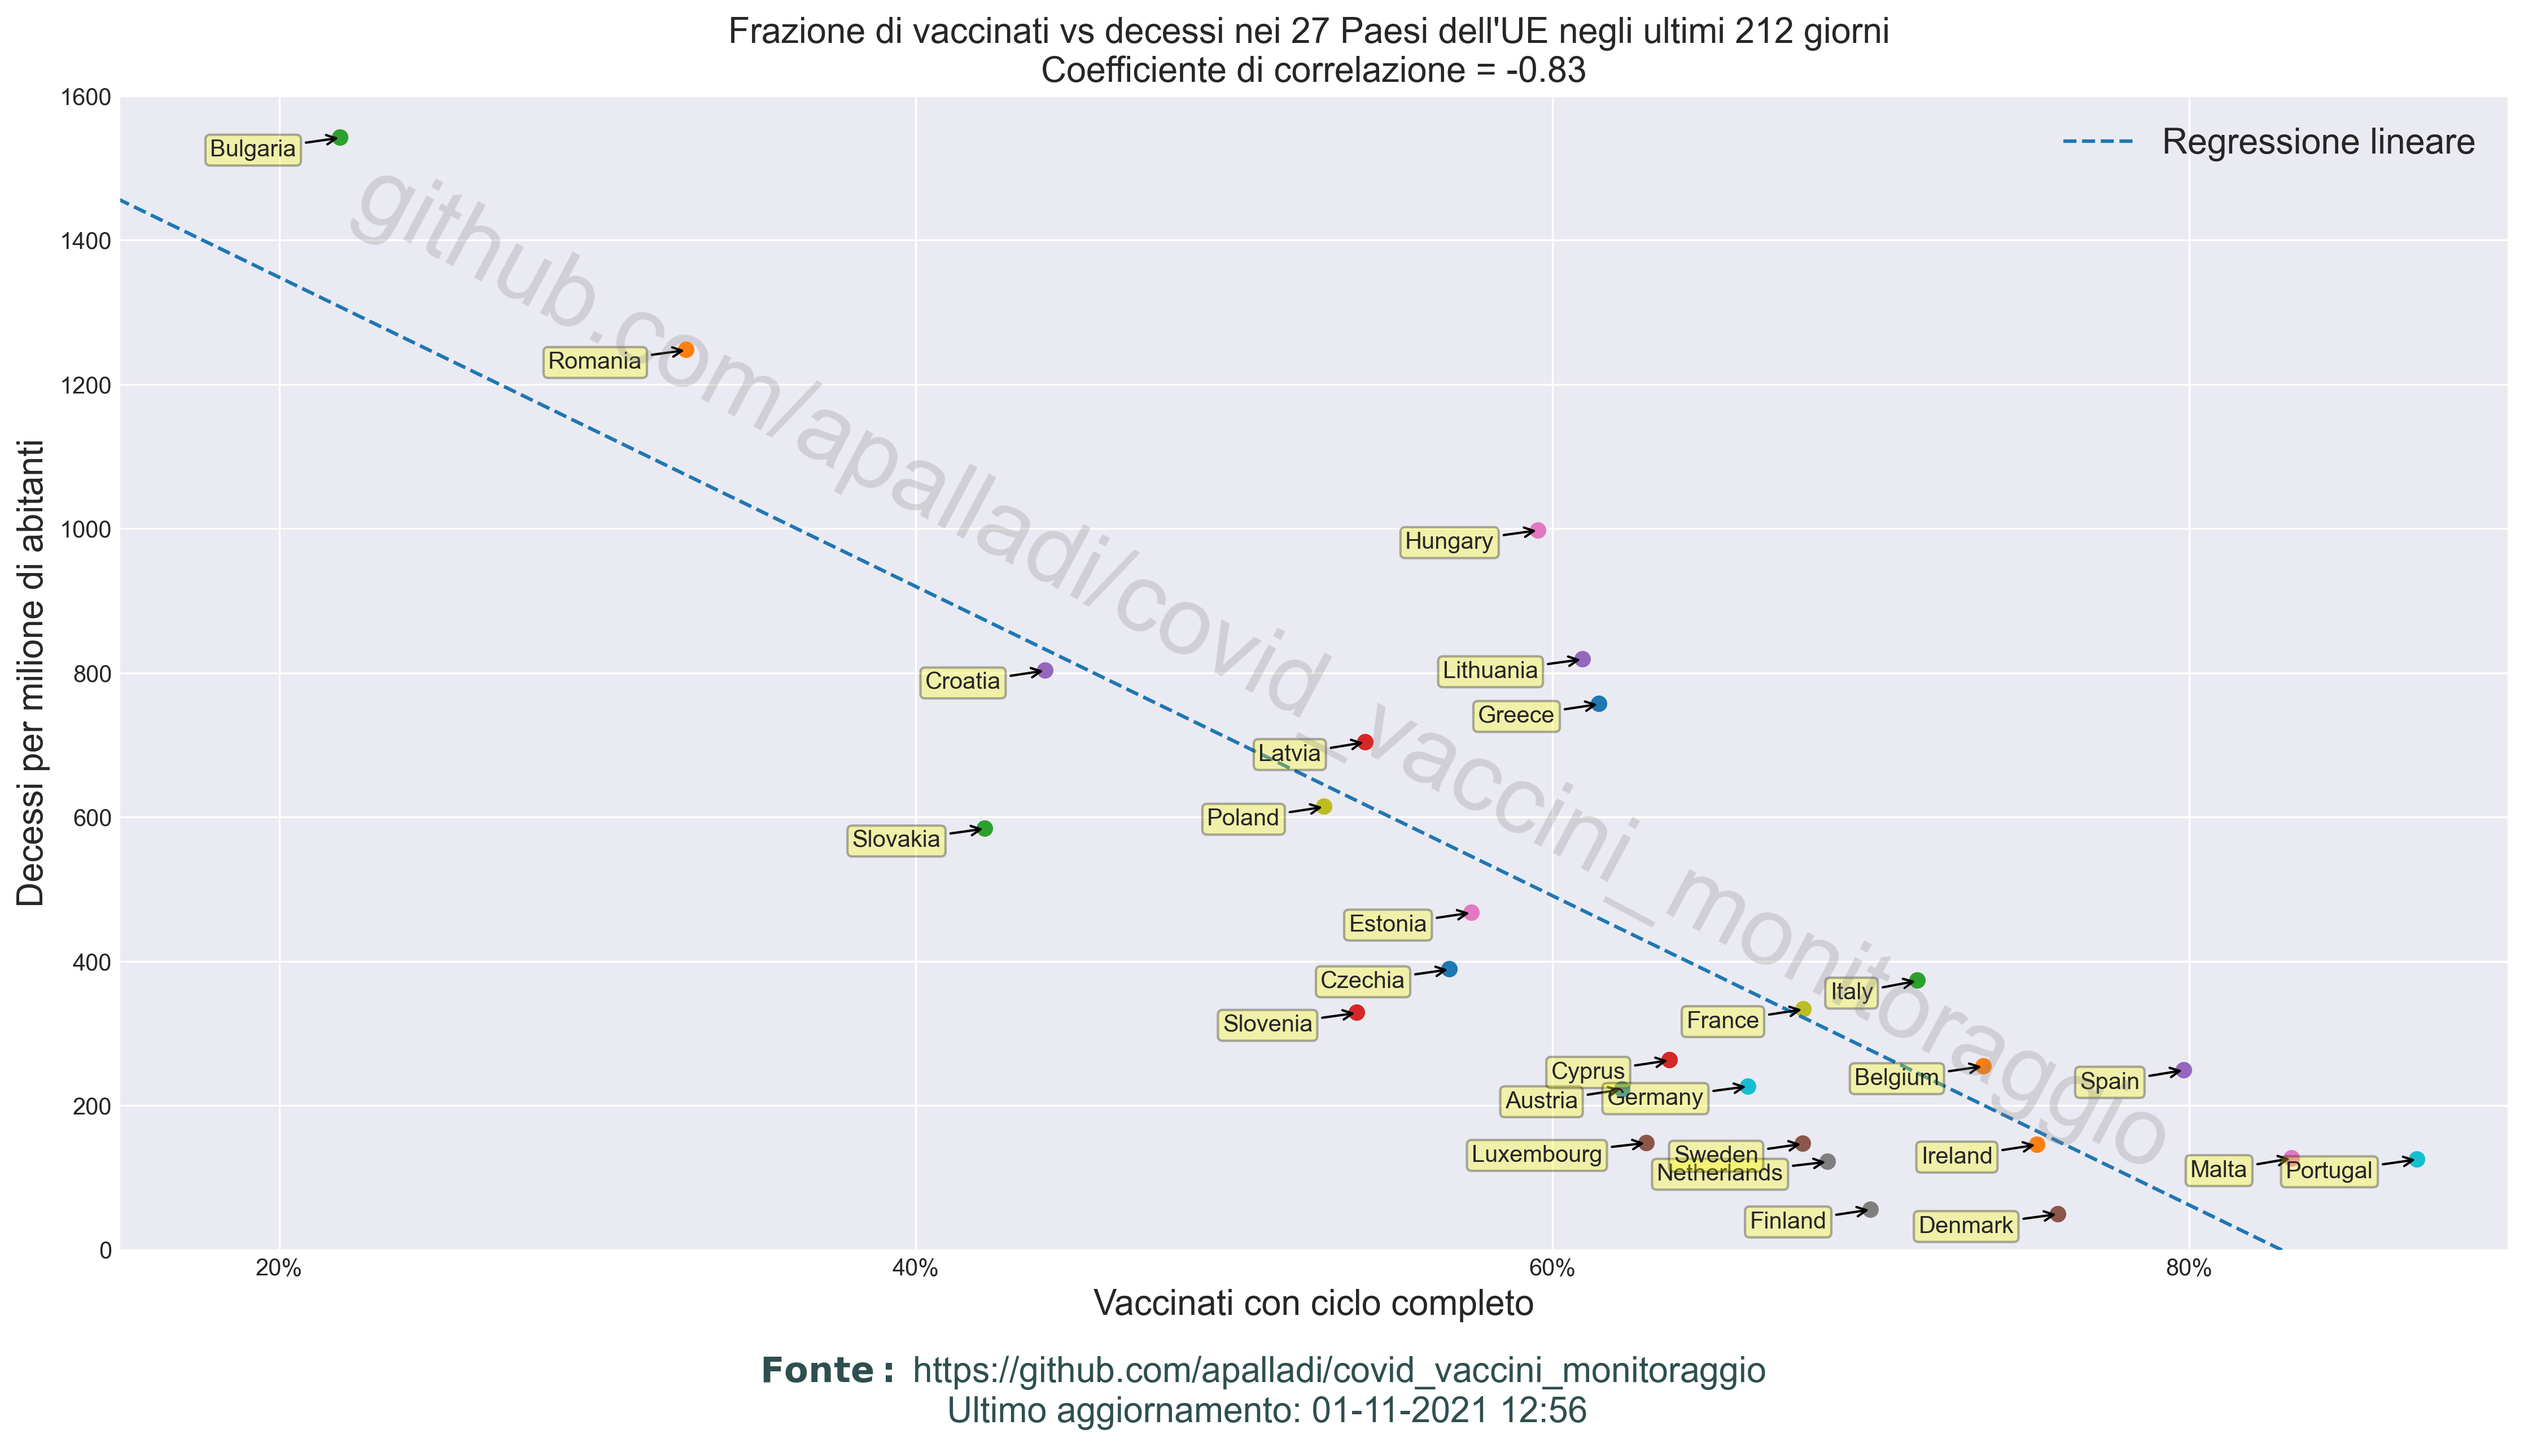
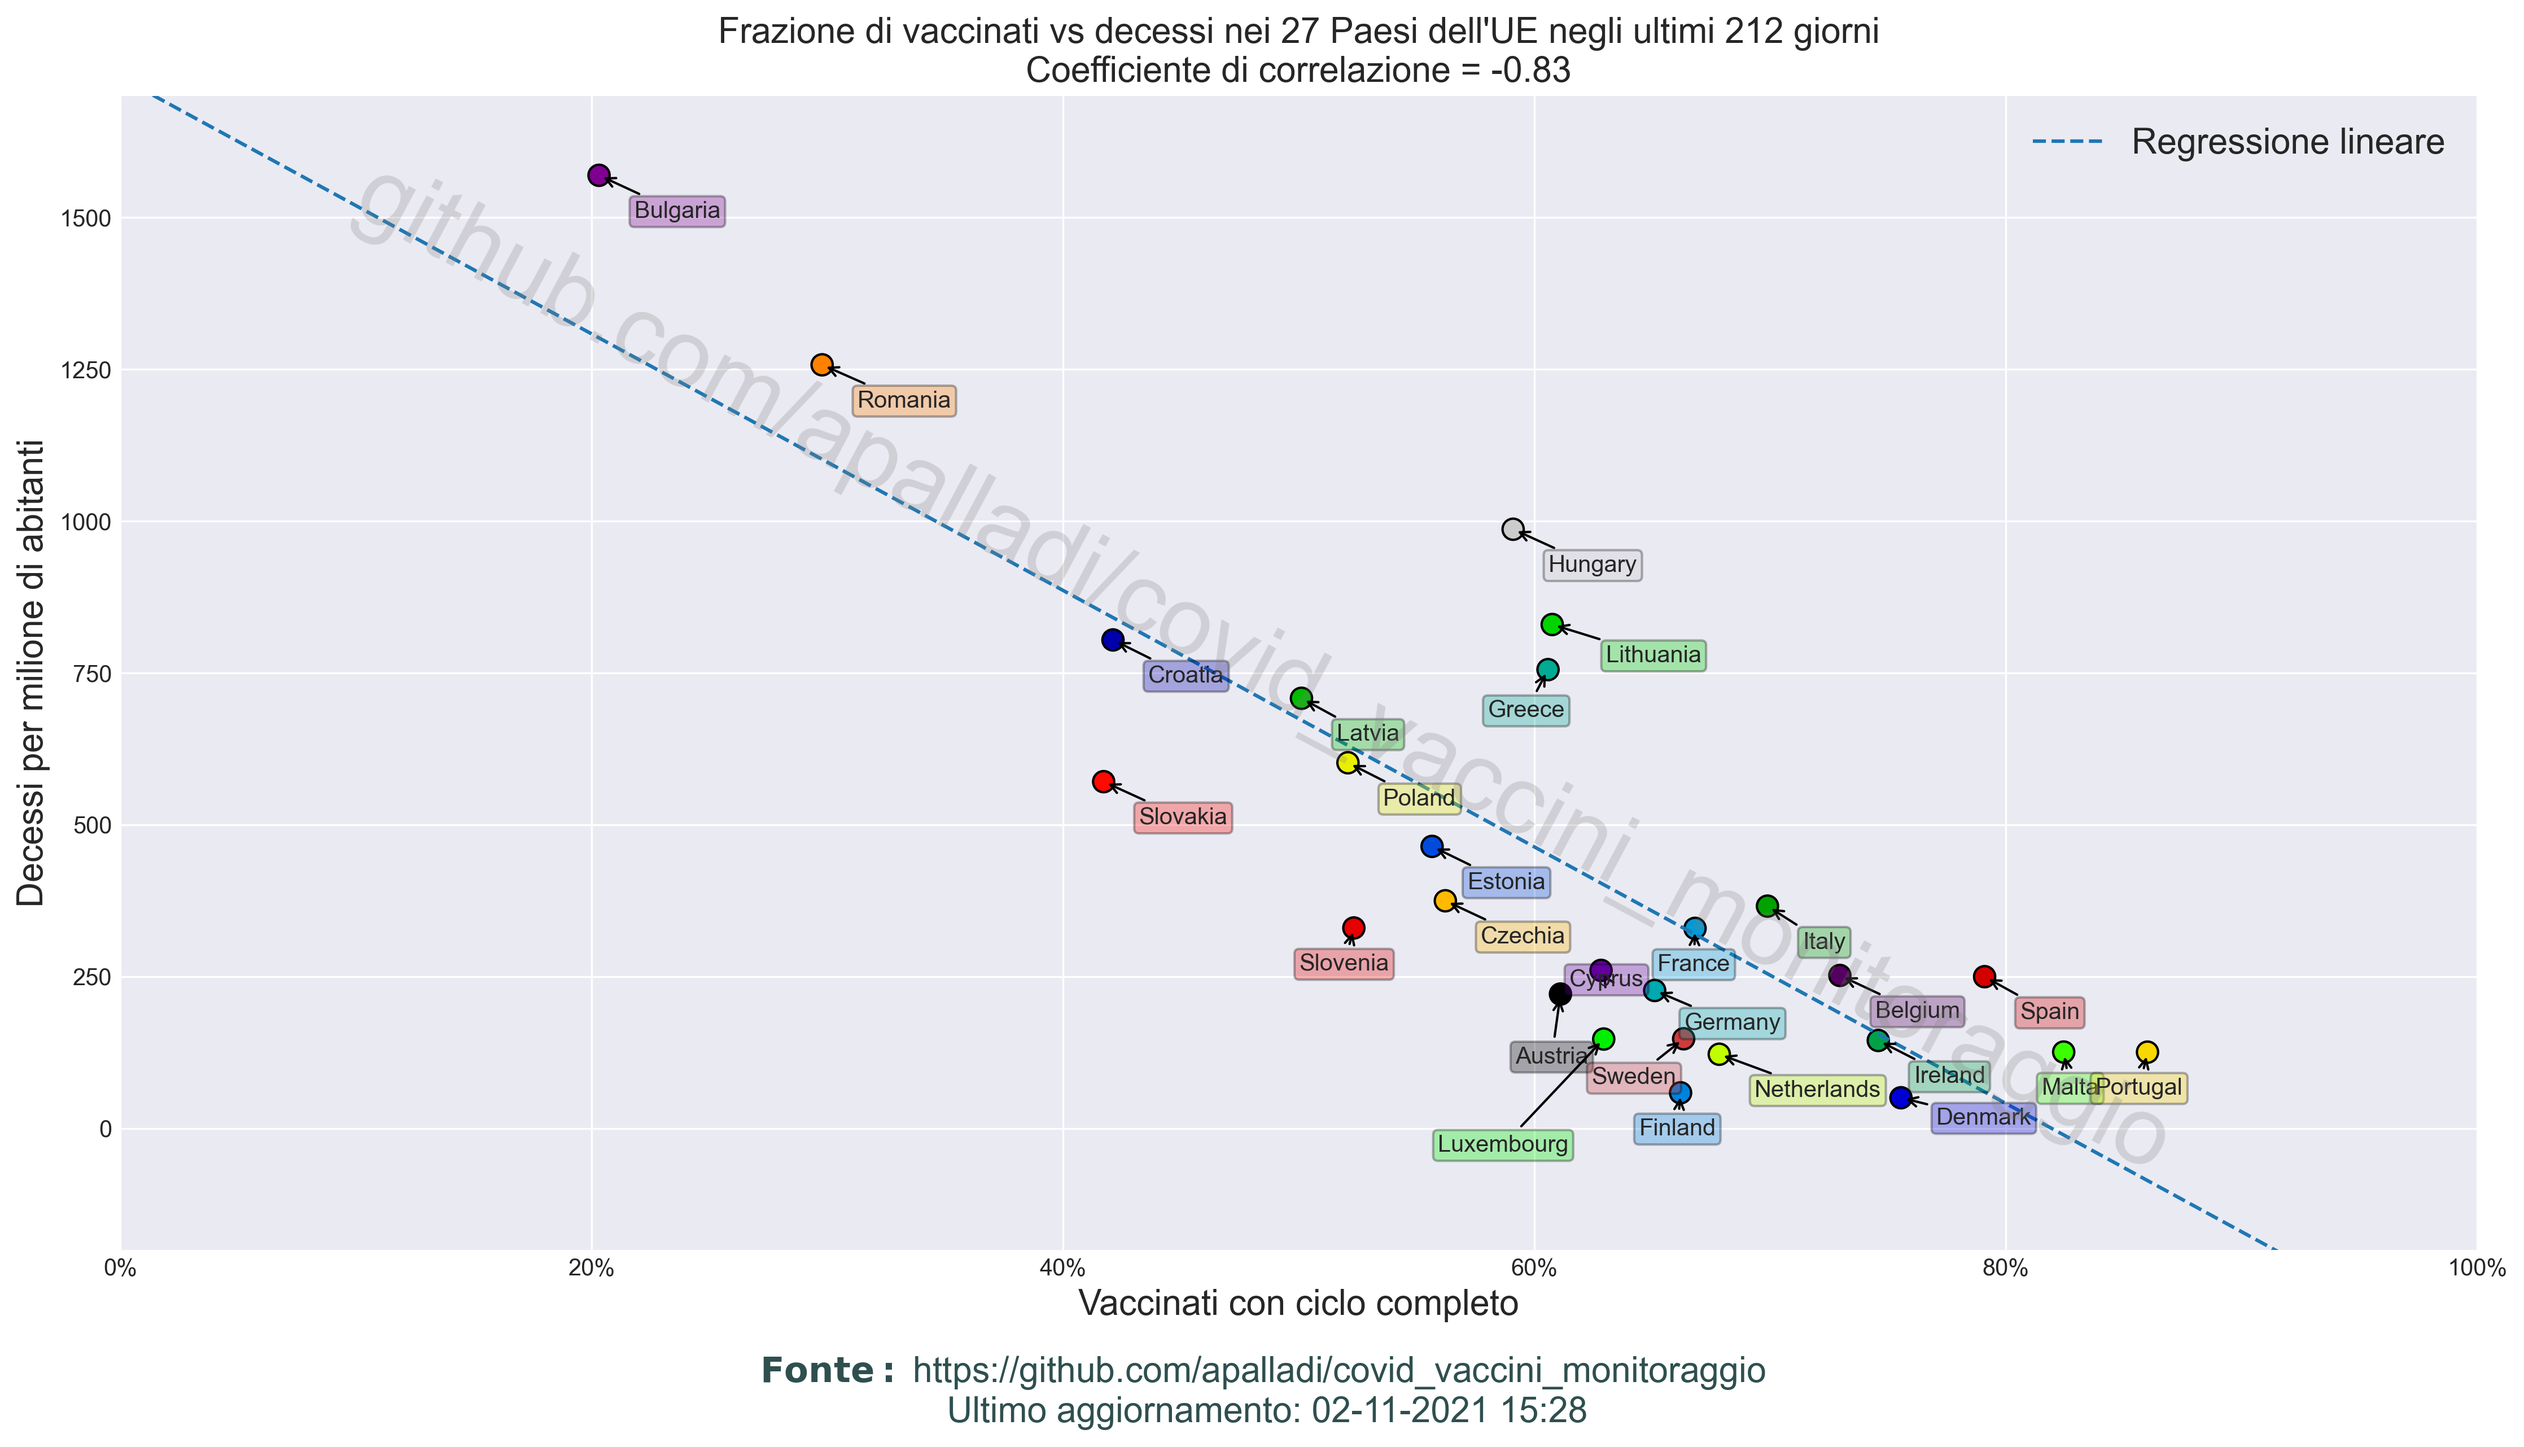
Attempt to fix scatter plot overlaps

diff --git a/scripts/confronti_europei.py b/scripts/confronti_europei.py
@@ -6,10 +6,10 @@ from os import chdir, path
 import matplotlib.pyplot as plt
 import numpy as np
 import pandas as pd
+from adjustText import adjust_text
 
 from custom.plots import aggiorna_ascissa
 from custom.watermarks import add_watermark
-
 
 paesi_abitanti_eu = {"Austria": 8.917, "Belgium": 11.56, "Bulgaria": 6.927,
                      "Cyprus": 1.207, "Croatia": 4.047, "Denmark": 5.831,
@@ -240,21 +240,29 @@ def plot_correlazione_vaccini_decessi(vacc_res_2021, dec_res_2021, x_grid, y_gri
 
     # scatter plot
     paesi = list(paesi_abitanti_eu.keys())
-    for i in range(len(vacc_res_2021)):
-        plt.scatter(vacc_res_2021[i], dec_res_2021[i])
-        plt.annotate(paesi[i],
-                     xy=(vacc_res_2021[i]+0.1, dec_res_2021[i]),
-                     xytext=(-20, -10),
-                     textcoords="offset points", ha="right", va="bottom",
-                     bbox=dict(boxstyle="round,pad=0.2", fc="yellow", alpha=0.3),
-                     arrowprops=dict(arrowstyle="->", connectionstyle="arc3,rad=0"))
-    # fit plot
+
+    # genera lista di colori
+    colors = plt.cm.nipy_spectral(np.linspace(0, 1, len(paesi)))
+    plt.scatter(vacc_res_2021, dec_res_2021, c=colors,
+                edgecolor="black", s=3*len(paesi))
+
+    texts = [plt.annotate(paesi[i],
+             xy=(vacc_res_2021[i], dec_res_2021[i]),
+             xytext=(15, -20),
+             textcoords="offset points",
+             bbox=dict(boxstyle='round,pad=0.2', fc=colors[i], alpha=0.3),
+             arrowprops=dict(arrowstyle="->", lw=1.0))
+             for i in range(len(vacc_res_2021))]
+
+    # fix text overlap
+    adjust_text(texts)
+
+    # plot fit equation
     plt.plot(x_grid, y_grid, linestyle="--", label="Regressione lineare")
 
+    plt.ylim(-200, 1700)
     plt.xlim(15, 90)
-    plt.ylim(0, 1600)
-    title = "Frazione di vaccinati vs decessi nei 27 Paesi dell'UE"
-    title += f" negli ultimi {ideal_window} giorni"
+    title = f"Frazione di vaccinati vs decessi nei 27 Paesi dell'UE negli ultimi {ideal_window} giorni"
     title += f"\nCoefficiente di correlazione = {corr_coeff}"
     plt.title(title, fontsize=15)
     plt.xlabel("Vaccinati con ciclo completo", fontsize=15)
@@ -286,6 +294,7 @@ if __name__ == "__main__":
     # Imposta stile grafici
     plt.style.use("seaborn-dark")
 
+    # importa dati
     df_confirmed, df_deaths, df_recovered = import_epidem_data()
     df_vacc = import_vaccines_data()
 
@@ -293,6 +302,7 @@ if __name__ == "__main__":
     plot_selection()
 
     # plot correlazione vaccini vs. decessi per paesi eu
+
     # calcola finestra temporale per cui si ottiene massima correlazione
     ideal_window = compute_max_correlation()
     # recupera dati per tale finestra temporale
@@ -310,5 +320,4 @@ if __name__ == "__main__":
                                       dec_res_2021,
                                       x_grid,
                                       y_grid,
-                                      ideal_window,
-                                      show=True)
+                                      ideal_window)
